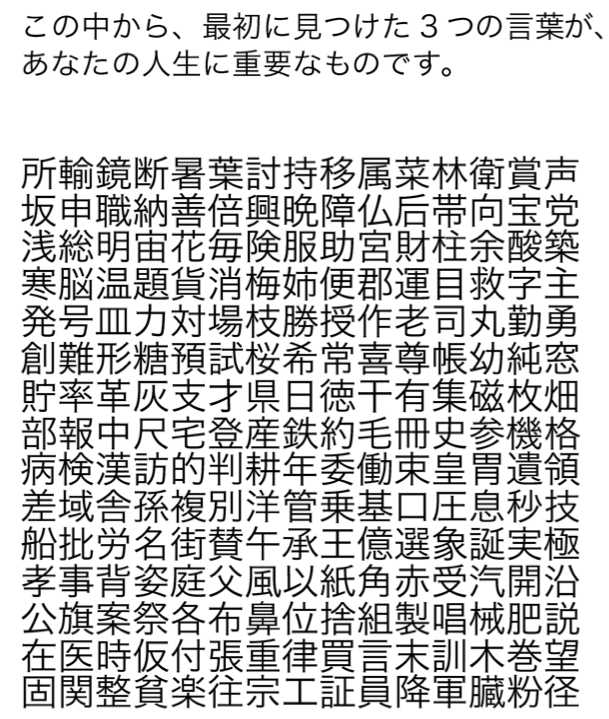
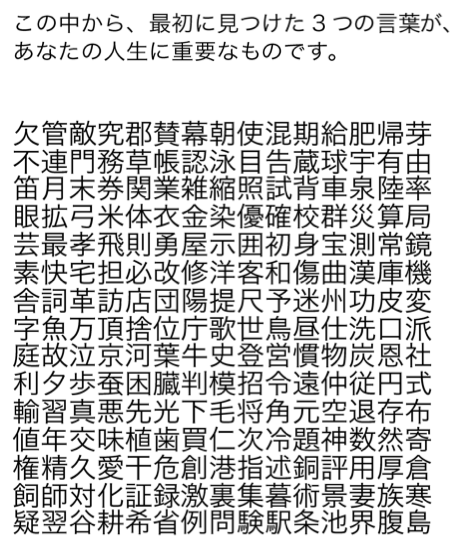
斜めに対応し、プログラムを簡略化しました

diff --git a/main.rb b/main.rb
@@ -15,6 +15,7 @@ words = words.sort_by{rand}
 open("uNoun.csv") {|file|
   while l = file.gets
     idiom << l.chomp
+    idiom << l.chomp.reverse
   end
 }
 
@@ -23,46 +24,20 @@ length = 15
 
 table = Array.new(length){ Array.new(length) }
 
-table[0][0] = words.shift
-
-for i in 1...length
-  while true
-    tmp = words.shift
-    unless (idiom.index(table[0][i-1]+tmp))
-      table[0][i]=tmp
-      break
-    else
-      words << tmp
-    end
-  end
-end
-
-for i in 1...length
-  while true
-    tmp = words.shift
-    word1 = idiom.index(table[i-1][0]+tmp)
-    word2 = idiom.index(tmp+table[i-1][0])
-    unless (word1||word2)
-      table[i][0]=tmp
-      break
-    else
-      words << tmp
-    end
-  end
-  
-  for j in 1...length
+for i in 0...length
+  for j in 0...length
     while true
-    tmp = words.shift
-    word1 = idiom.index(table[i-1][j]+tmp)
-    word2 = idiom.index(tmp+table[i-1][j])
-    word3 = idiom.index(table[i][j-1]+tmp)
-    word4 = idiom.index(tmp+table[i][j-1])
-    unless (word1||word2||word3||word4)
-      table[i][j]=tmp
-      break
-    else
-      words << tmp
-    end
+      tmp = words.shift
+      word1 = i==0                  ? false : idiom.index(table[i-1][j]+tmp)
+      word2 = j==0                  ? false : idiom.index(table[i][j-1]+tmp)
+      word3 = (i==0||j==0)          ? false : idiom.index(table[i-1][j-1]+tmp)
+      word4 = (i==0||j==(length-1)) ? false : idiom.index(table[i-1][j+1]+tmp)
+      unless (word1||word2||word3||word4)
+        table[i][j]=tmp
+        break
+      else
+        words << tmp
+      end
     end
   end
 end
